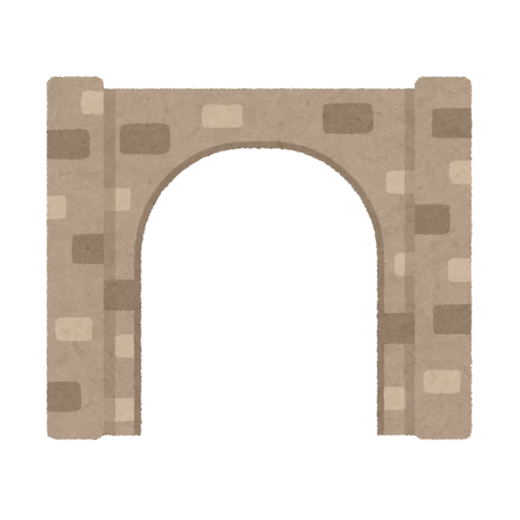
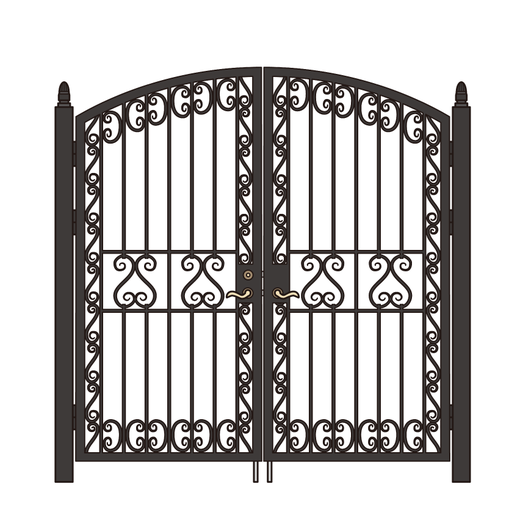
Update menkai gate and temple images

diff --git a/sw.js b/sw.js
@@ -1,4 +1,4 @@
-var CACHE = 'thejail-prison-v60';
+var CACHE = 'thejail-prison-v61';
 var ASSETS = ['./', './index.html', './menkai/', './menkai/index.html', './menkai/menkai.css', './menkai/menkai.js', './images/menkai-ant.png', './images/menkai-gate.png', './images/menkai-stick.png', './images/menkai-butterfly.png', './images/menkai-sun.png', './images/menkai-temple.png', './images/menkai-slope.png', './images/menkai-moon.png', './images/menkai-x.png', './style.css', './app.js', './manifest.json', './videos/warden.mp4', './fonts/play.css', './fonts/murecho.css', './fonts/murecho-100.woff2', './fonts/murecho-101.woff2', './fonts/murecho-102.woff2', './fonts/murecho-103.woff2', './fonts/murecho-104.woff2', './fonts/murecho-105.woff2', './fonts/murecho-106.woff2', './fonts/murecho-107.woff2', './fonts/murecho-108.woff2', './fonts/murecho-109.woff2', './fonts/murecho-110.woff2', './fonts/murecho-111.woff2', './fonts/murecho-112.woff2', './fonts/murecho-113.woff2', './fonts/murecho-114.woff2', './fonts/murecho-117.woff2', './fonts/murecho-119.woff2', './fonts/murecho-55.woff2', './fonts/murecho-56.woff2', './fonts/murecho-66.woff2', './fonts/murecho-69.woff2', './fonts/murecho-71.woff2', './fonts/murecho-72.woff2', './fonts/murecho-74.woff2', './fonts/murecho-77.woff2', './fonts/murecho-78.woff2', './fonts/murecho-80.woff2', './fonts/murecho-81.woff2', './fonts/murecho-82.woff2', './fonts/murecho-83.woff2', './fonts/murecho-84.woff2', './fonts/murecho-85.woff2', './fonts/murecho-86.woff2', './fonts/murecho-87.woff2', './fonts/murecho-88.woff2', './fonts/murecho-89.woff2', './fonts/murecho-90.woff2', './fonts/murecho-91.woff2', './fonts/murecho-92.woff2', './fonts/murecho-93.woff2', './fonts/murecho-94.woff2', './fonts/murecho-95.woff2', './fonts/murecho-96.woff2', './fonts/murecho-97.woff2', './fonts/murecho-98.woff2', './fonts/murecho-99.woff2', './fonts/Play-Bold-latin.woff2', './fonts/Play-Bold-greek.woff2', './images/window.png', './images/choice-head.png', './images/btn-close.png', './images/sym-yes.png', './images/sym-no.png', './images/banner-senryu.png', './images/banner-ai.png', './images/caution.png', './images/btn-code.png', './images/btn-record.png', './images/icon-cab.png', './images/logo-thejail.png', './images/icon-192.png', './images/icon-512.png', './images/apple-touch-icon.png', './images/item-mask.png', './images/icon-mask.png', './images/item-pencil.png', './images/icon-pencil.png', './images/item-tissue.png', './images/icon-tissue.png', './images/item-chain.png', './images/icon-chain.png', './images/item-ballpoint.png', './images/icon-ballpoint.png', './images/item-battery.png', './images/icon-battery.png', './images/item-eraser.png', './images/icon-eraser.png', './images/item-diamond.png', './images/icon-diamond.png', './images/item-heart.png', './images/icon-heart.png', './images/item-club.png', './images/icon-club.png', './images/item-spade.png', './images/icon-spade.png', './images/item-carabiner.png', './images/icon-carabiner.png', './images/item-clip.png', './images/icon-clip.png', './images/item-shook.png', './images/icon-shook.png'];
 
 self.addEventListener('install', function (e) {
